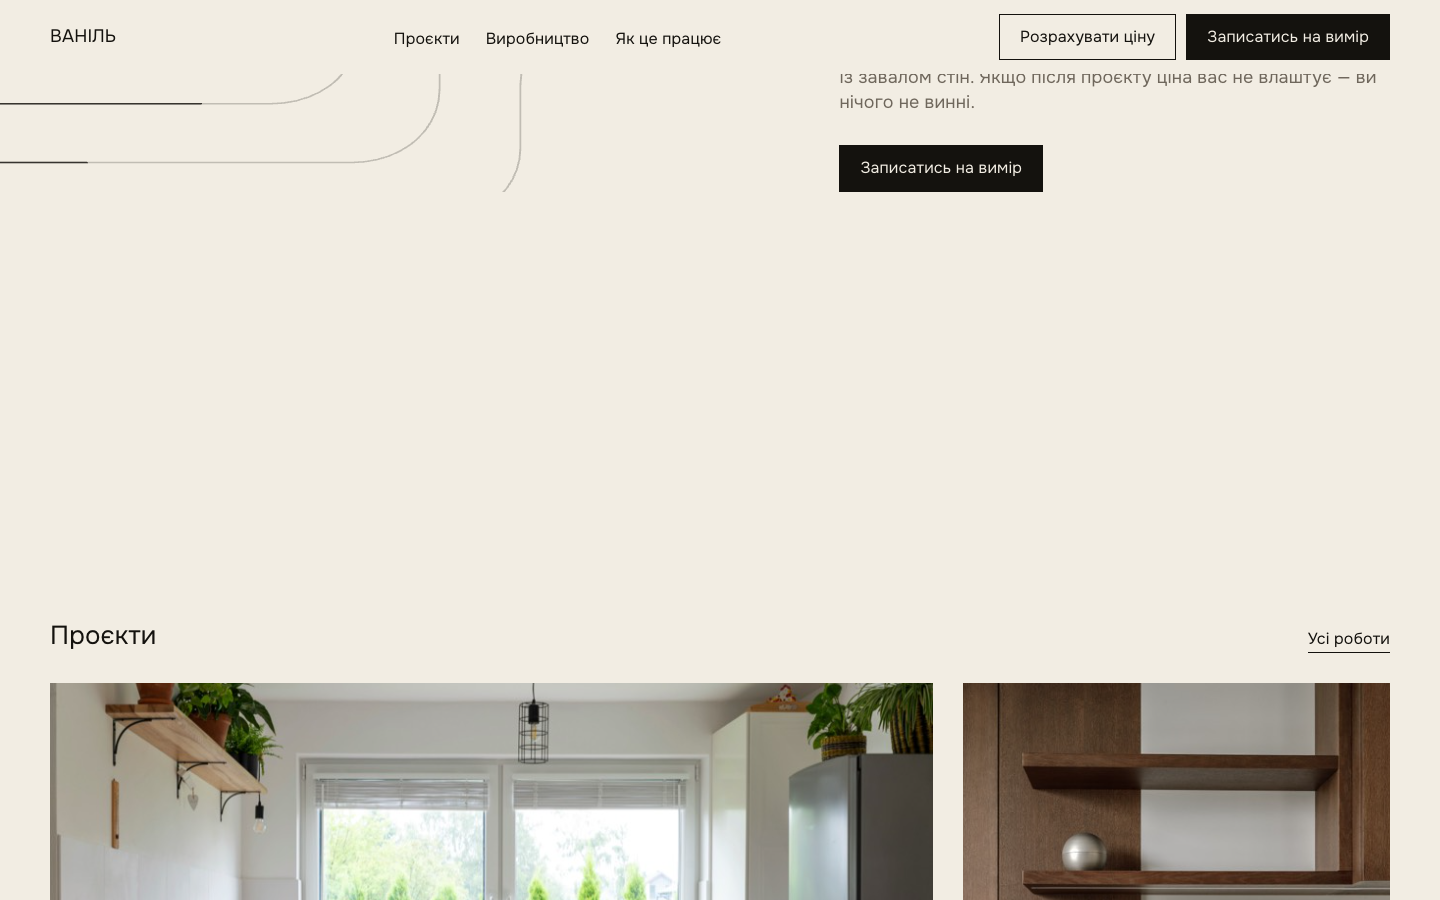
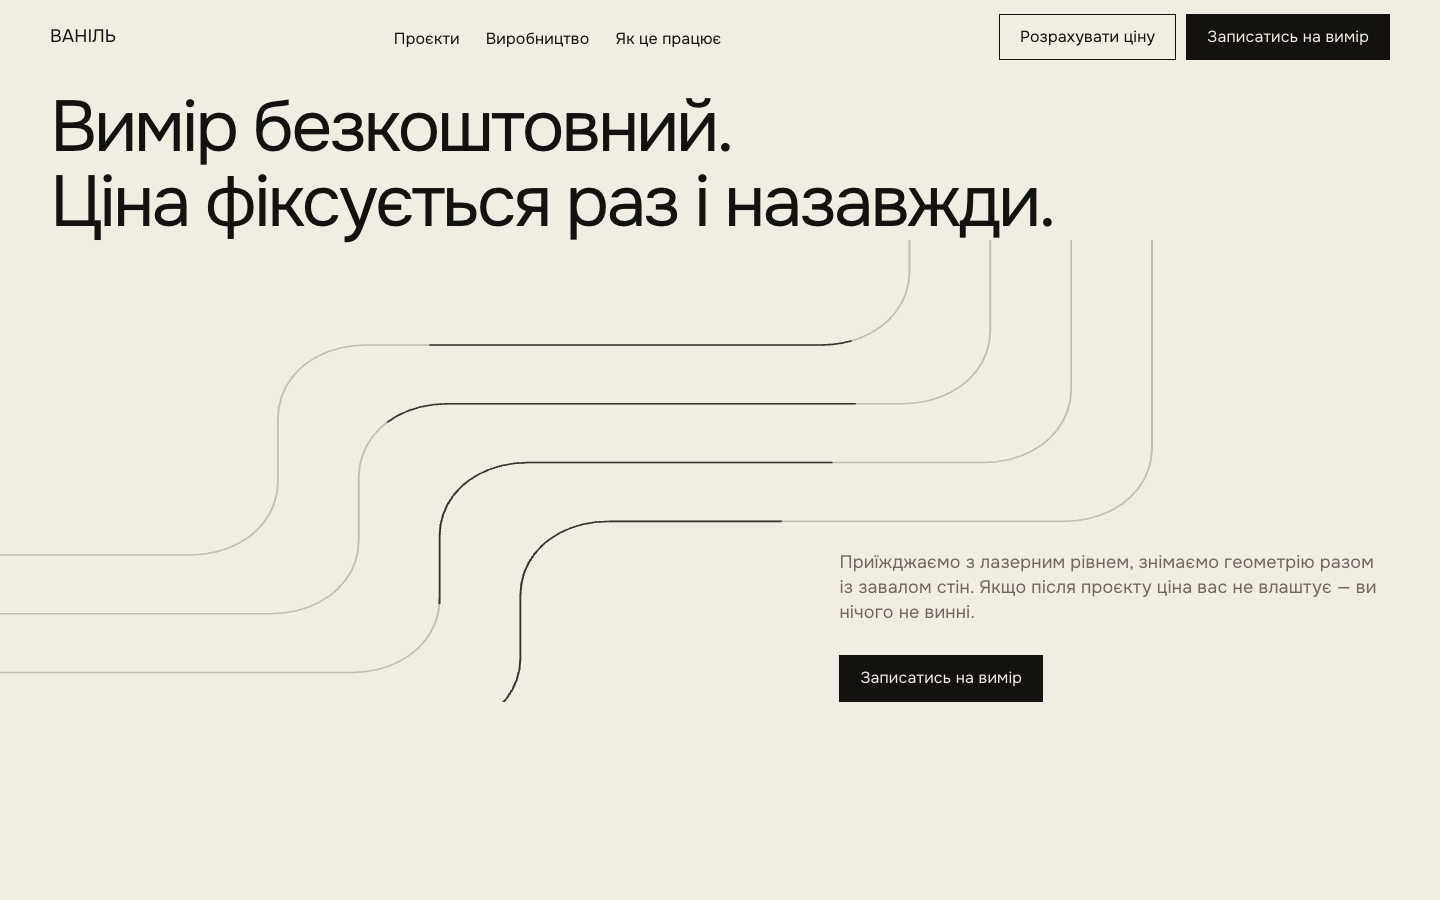
Заявна секція: надрядок став над заголовком, як на рефі
«ОСНОВА» стояла окремо в кутку секції, за 200px від заголовка. На
референсі надрядок — частина заголовкового блоку. Тепер вони в одному
flex-блоці з проміжком 30px (оптично 21px).

Відступ згори зменшено 270 -> 223px, щоб задані 270px і далі міряли
відстань від картинки до ЗАГОЛОВКА: надрядок стоїть усередині просвіту,
а не додається до нього.

diff --git a/assets/style.css b/assets/style.css
@@ -182,17 +182,20 @@ a:focus-visible,button:focus-visible,input:focus-visible,select:focus-visible,.c
   /* 270px — задана відстань від картинки згори до заголовка;
      376px знизу дають рівно 470px від кнопки до заголовка «Проєкти»
      (решту добирають власний відступ .shead і його базова лінія) */
-  padding:270px var(--g) 376px;
+  /* 223 = 270 - (рядок надрядка 17 + проміжок 30): задані 270px і далі
+     міряються від картинки до ЗАГОЛОВКА, надрядок стоїть у цьому просвіті */
+  padding:223px var(--g) 376px;
 }
-/* надрядок стоїть у своєму куті й не входить у ці 270px */
-.claim__eye{position:absolute;top:var(--s-lg);left:var(--g);
-            display:flex;align-items:center;gap:10px;
+/* надрядок стоїть впритул над заголовком одним блоком, як на рефі,
+   а не окремо в кутку секції */
+.claim__lead{grid-row:1;grid-column:1;display:flex;flex-direction:column;gap:var(--s-sm)}
+.claim__eye{display:flex;align-items:center;gap:10px;
             font-size:12px;letter-spacing:.14em;text-transform:uppercase;color:var(--grey)}
 .claim__eye i{width:6px;height:6px;background:currentColor;flex:none}
 
 /* Два речення — два рядки, розриви проставлені в розмітці. Міру не
    обмежуємо, інакше рядок ламався б сам не там, де треба. */
-.claim__h{grid-row:1;grid-column:1;max-width:none;
+.claim__h{max-width:none;
           font-size:clamp(34px,5vw,72px);line-height:1.04;letter-spacing:-.04em}
 
 /* Смуги лежать серединою секції на всю ширину: заходять зліва внизу й
@@ -220,9 +223,6 @@ a:focus-visible,button:focus-visible,input:focus-visible,select:focus-visible,.c
 .claim__acts{display:flex;flex-wrap:wrap;align-items:center;gap:16px 24px}
 
 @media (max-width:900px){
-  /* надрядок лишається абсолютним і тут: відступ згори (115px) більший за
-     його місце (50px), тож із заголовком він не сходиться. Якщо зробити
-     його статичним, автопотік кладе його в порожню середню смугу гріда. */
   /* 310px — десктопна міра; на телефоні це просто діра, тож рядок стає auto */
   .claim{min-height:0;grid-template-rows:auto auto auto;
          padding:var(--s-xl) var(--g) var(--s-xl);row-gap:var(--s-xl)}

diff --git a/index.html b/index.html
@@ -46,9 +46,10 @@
 </div>
 
 <section class="claim rv">
-  <p class="claim__eye"><i aria-hidden="true"></i>Основа</p>
-
-  <h2 class="claim__h">Вимір безкоштовний.<br>Ціна фіксується раз і назавжди.</h2>
+  <div class="claim__lead">
+    <p class="claim__eye"><i aria-hidden="true"></i>Основа</p>
+    <h2 class="claim__h">Вимір безкоштовний.<br>Ціна фіксується раз і назавжди.</h2>
+  </div>
 
   <!-- Смуги йдуть повз текст серединою кадру: заходять зліва внизу,
        сходинками піднімаються і виходять угору праворуч. Намальовані двічі —
